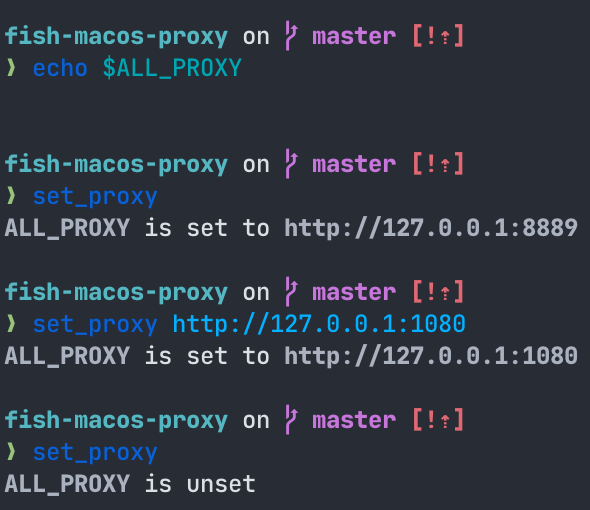
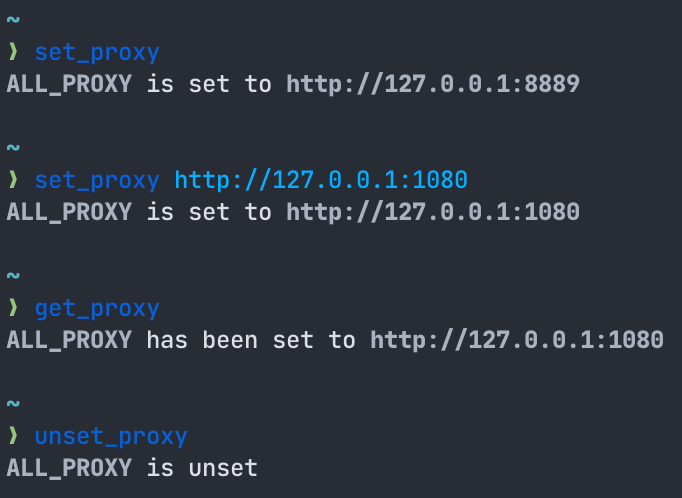
Rewrite

diff --git a/README.md b/README.md
@@ -1,28 +1,28 @@
-# 🐟🍎🌐 Fish macOS proxy
+# 🐟🌐 Fish proxy
 
 ![Screenshot](screenshot.png)
 
-Automatically set `ALL_PROXY` environment variable on macOS, reading proxy server form system preferences via `scutil`.
-
-`ALL_PROXY` is widely supported, such as [curl](https://curl.se/) and [Homebrew](https://brew.sh/).
+Get, set and unset proxy environment variables with ease.
 
 ## Usage
 
 With [Fisher](https://github.com/jorgebucaran/fisher):
 
 ```sh
-fisher install kidonng/fish-macos-proxy
+fisher install kidonng/fish-proxy
 ```
 
-- Use `set_proxy` function to (un)set `ALL_PROXY`
-  - `set_proxy` is executed at shell startup
-  - You can also specify a proxy server as `set_proxy`'s argument
-- Use `get_proxy` to print all proxy environment variables:
+- `get_proxy` will print the following environment variables:
   - `ALL_PROXY` / `all_proxy`
   - `HTTP_PROXY` / `http_proxy`
   - `HTTPS_PROXY` / `https_proxy`
   - `FTP_PROXY` / `ftp_proxy`
+- `set_proxy` will set environment variables in `$proxy_vars` to the given server
+  - If no server is specified, it will use system proxy config on macOS (via `scutil`)
+  - `$proxy_vars` is `ALL_PROXY` by default, which is used by many, such as [curl](https://curl.se/) and [Homebrew](https://brew.sh/)
+  - `set -U proxy_launch` to run `set_proxy` at shell startup
+- `unset_proxy` will unset environment variables in `$proxy_vars`
 
 ## See also
 
-- [zsh-osx-autoproxy](https://github.com/SukkaW/zsh-osx-autoproxy) - plugin for Zsh
+- [zsh-osx-autoproxy](https://github.com/SukkaW/zsh-osx-autoproxy)
